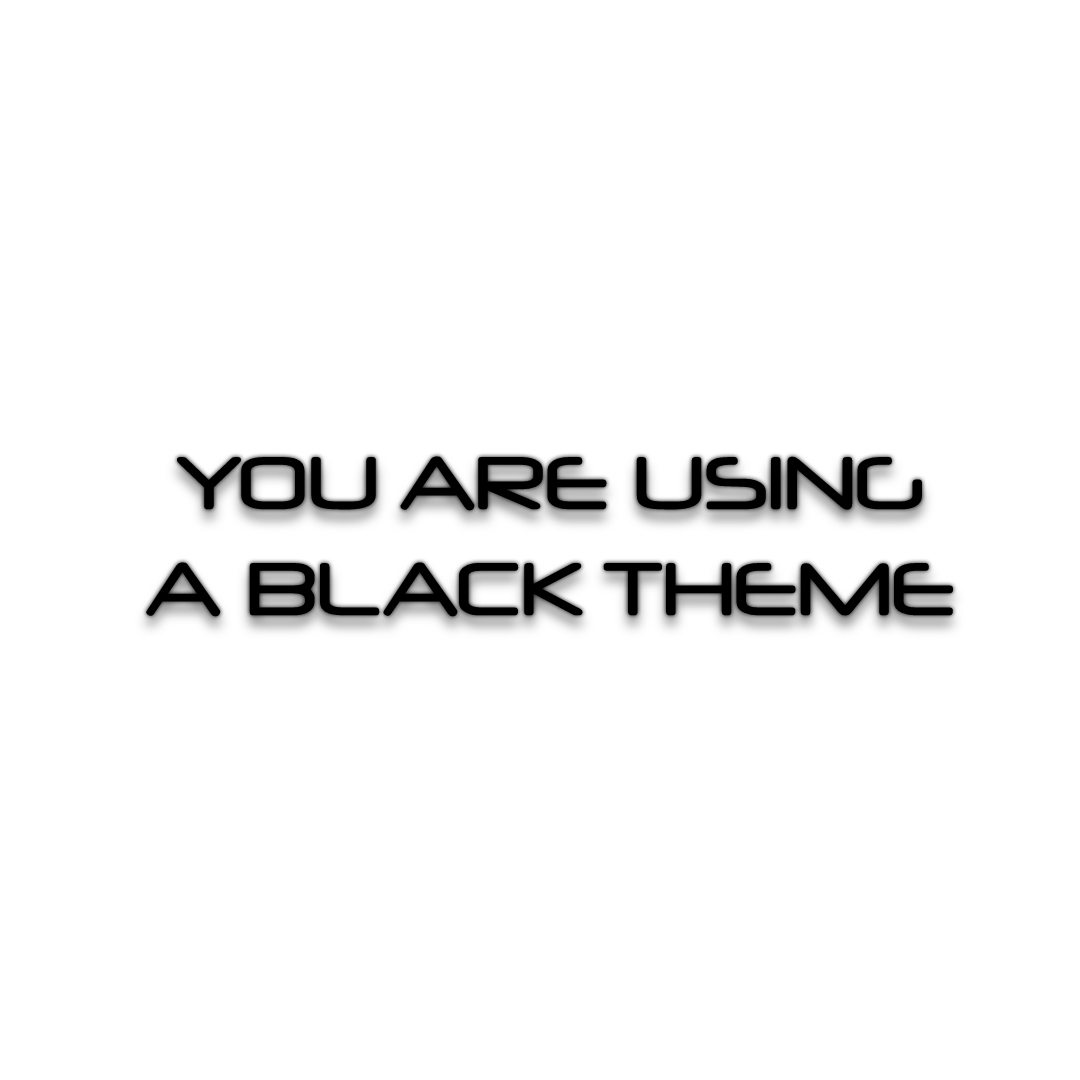
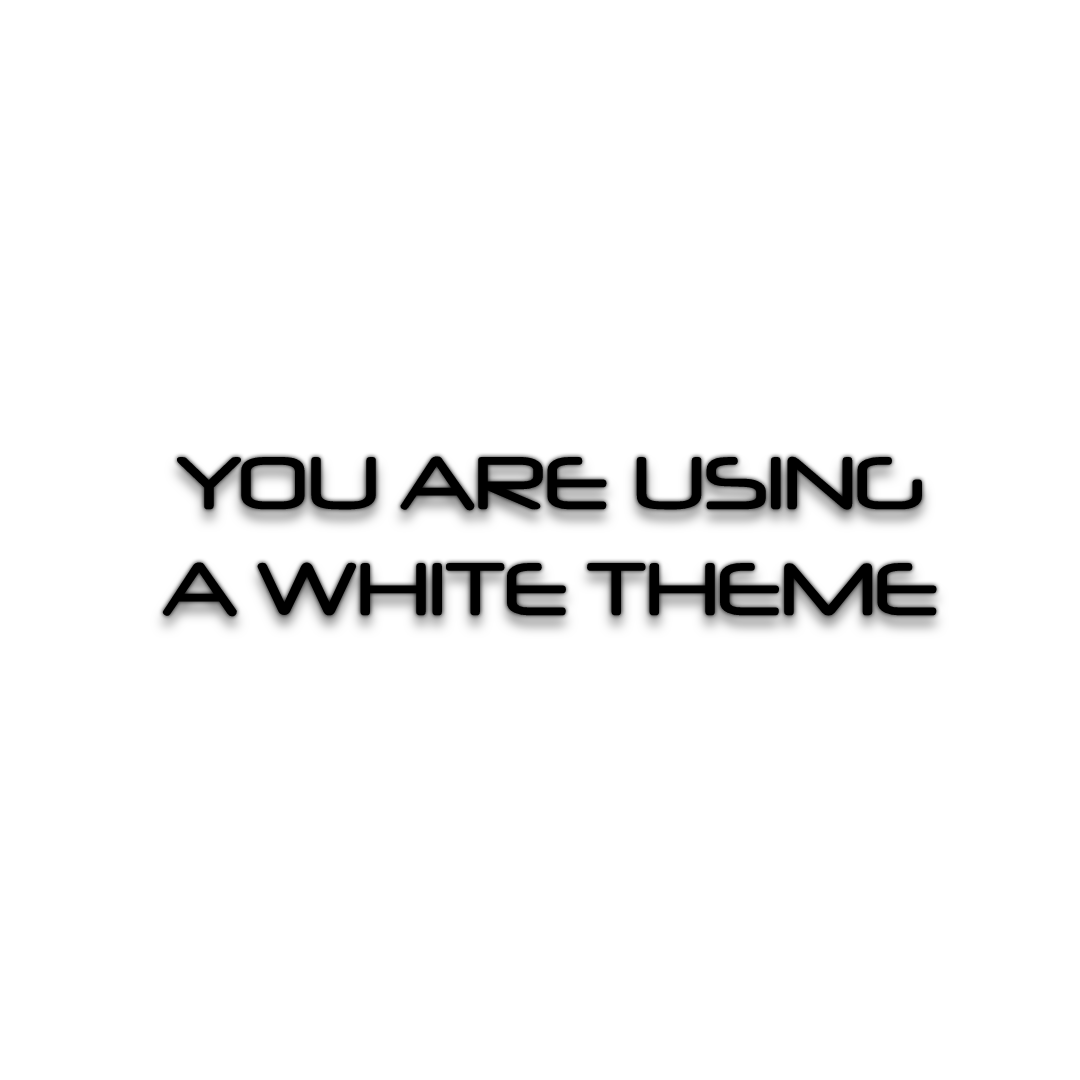
test

Changed region(s): [[0.1222, 0.5194, 0.8861, 0.5806]]

diff --git a/StackOverflow/Answers/70200610_11465149/README.md b/StackOverflow/Answers/70200610_11465149/README.md
@@ -1,9 +1,3 @@
-<p align="center">
-    <img src="./w1.png#gh-light-mode-only" />
-    <img src="./b1.png#gh-dark-mode-only"/>
-  </a>
-</p>
-
 | Test with GitHub iamge-link|
 |:---:|
 |![GitHub-Mark-Light](./b.png#gh-light-mode-only)![GitHub-Mark-Dark ](./w.png#gh-dark-mode-only)|
@@ -20,3 +14,8 @@
 ![GitHub-Mark-Light](https://i.stack.imgur.com/IF6pt.png#gh-light-mode-only)
 ![GitHub-Mark-Dark](https://i.stack.imgur.com/t2bMr.png#gh-dark-mode-only)
 ```
+<p align="center">
+    <img src="./b1.png#gh-light-mode-only" height="1080" width="1080"/>
+    <img src="./w1.png#gh-dark-mode-only" height="1080" width="1080"/>
+  </a>
+</p>
